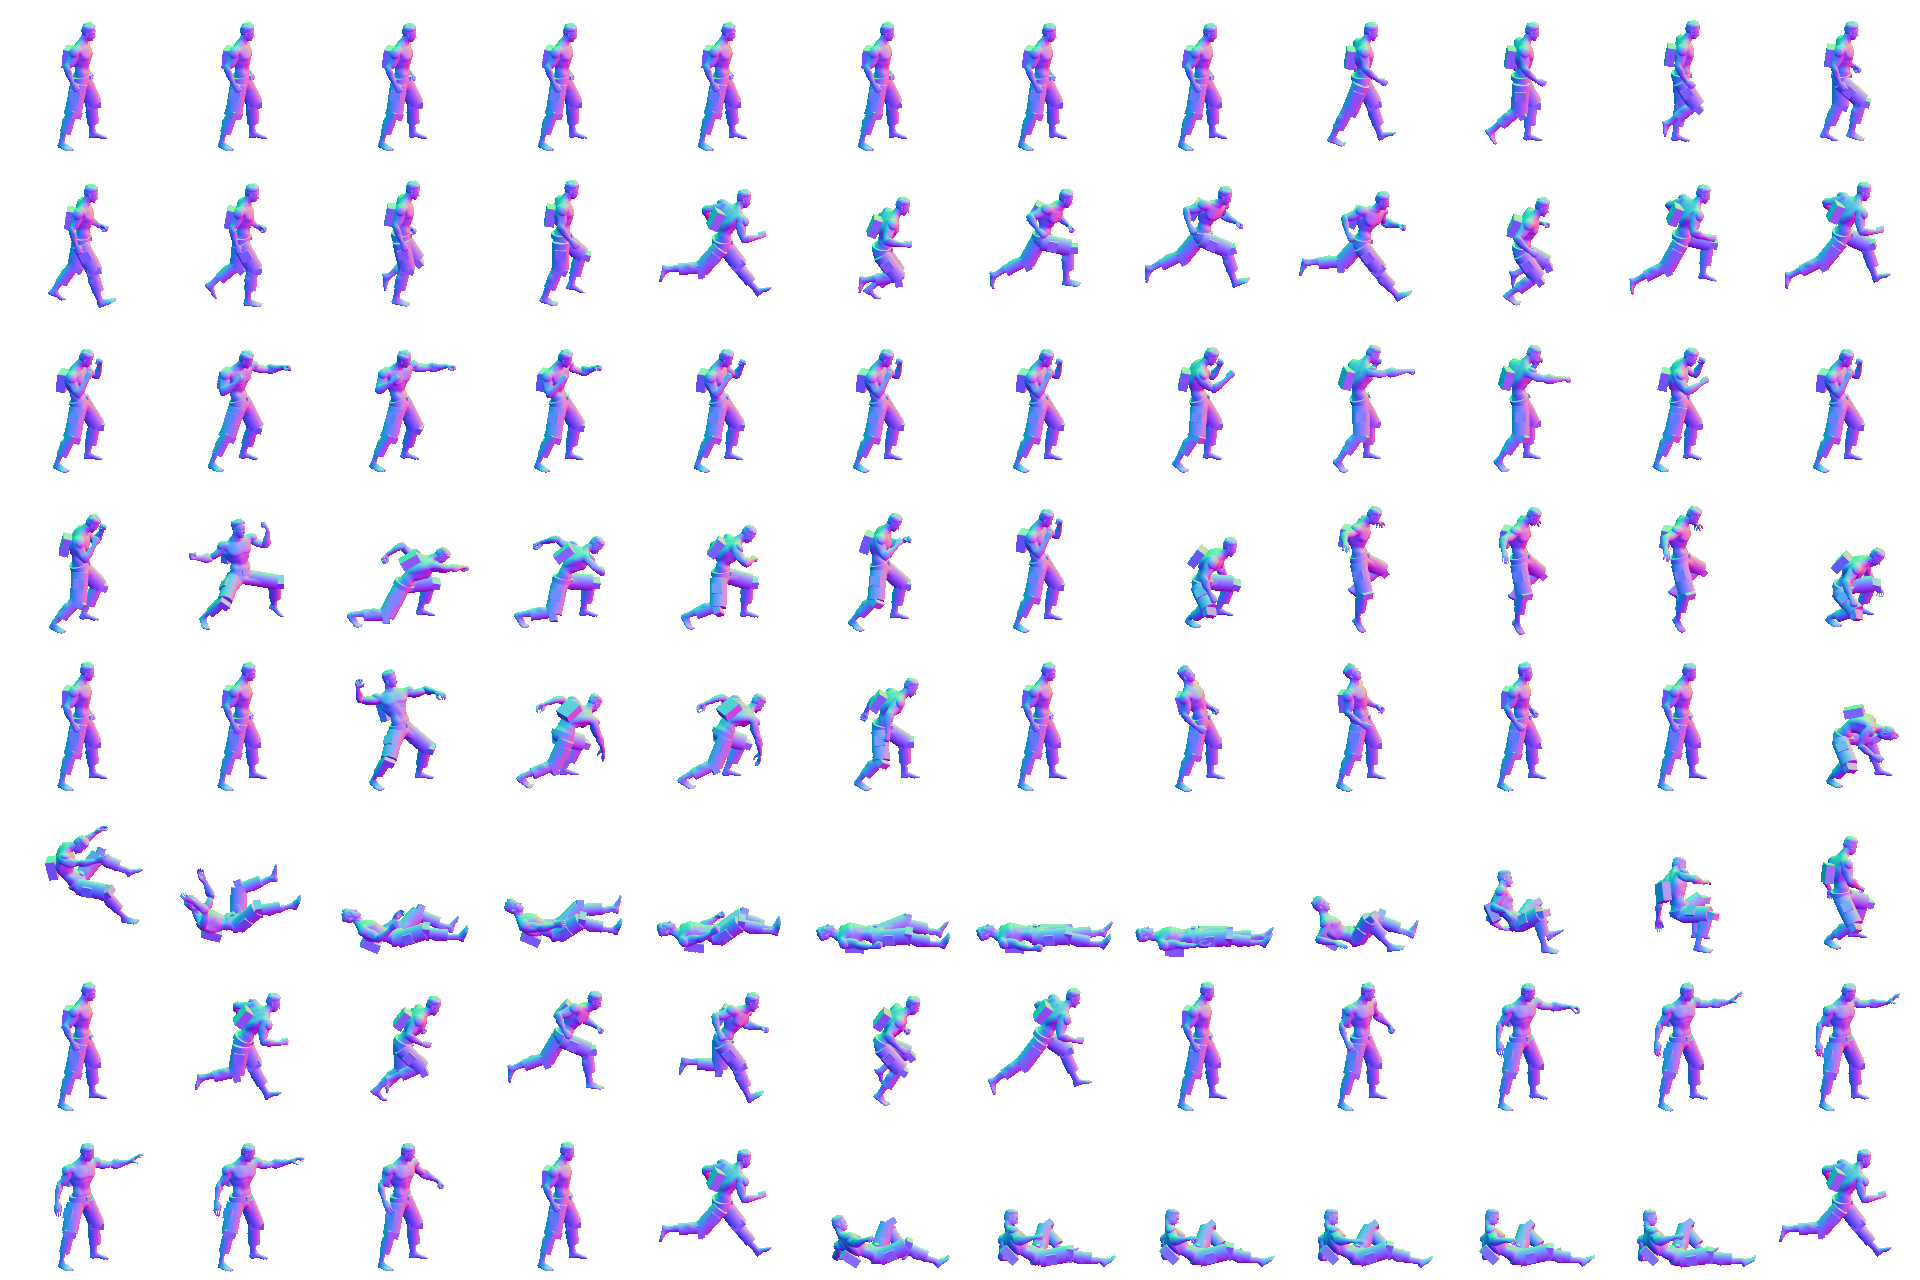
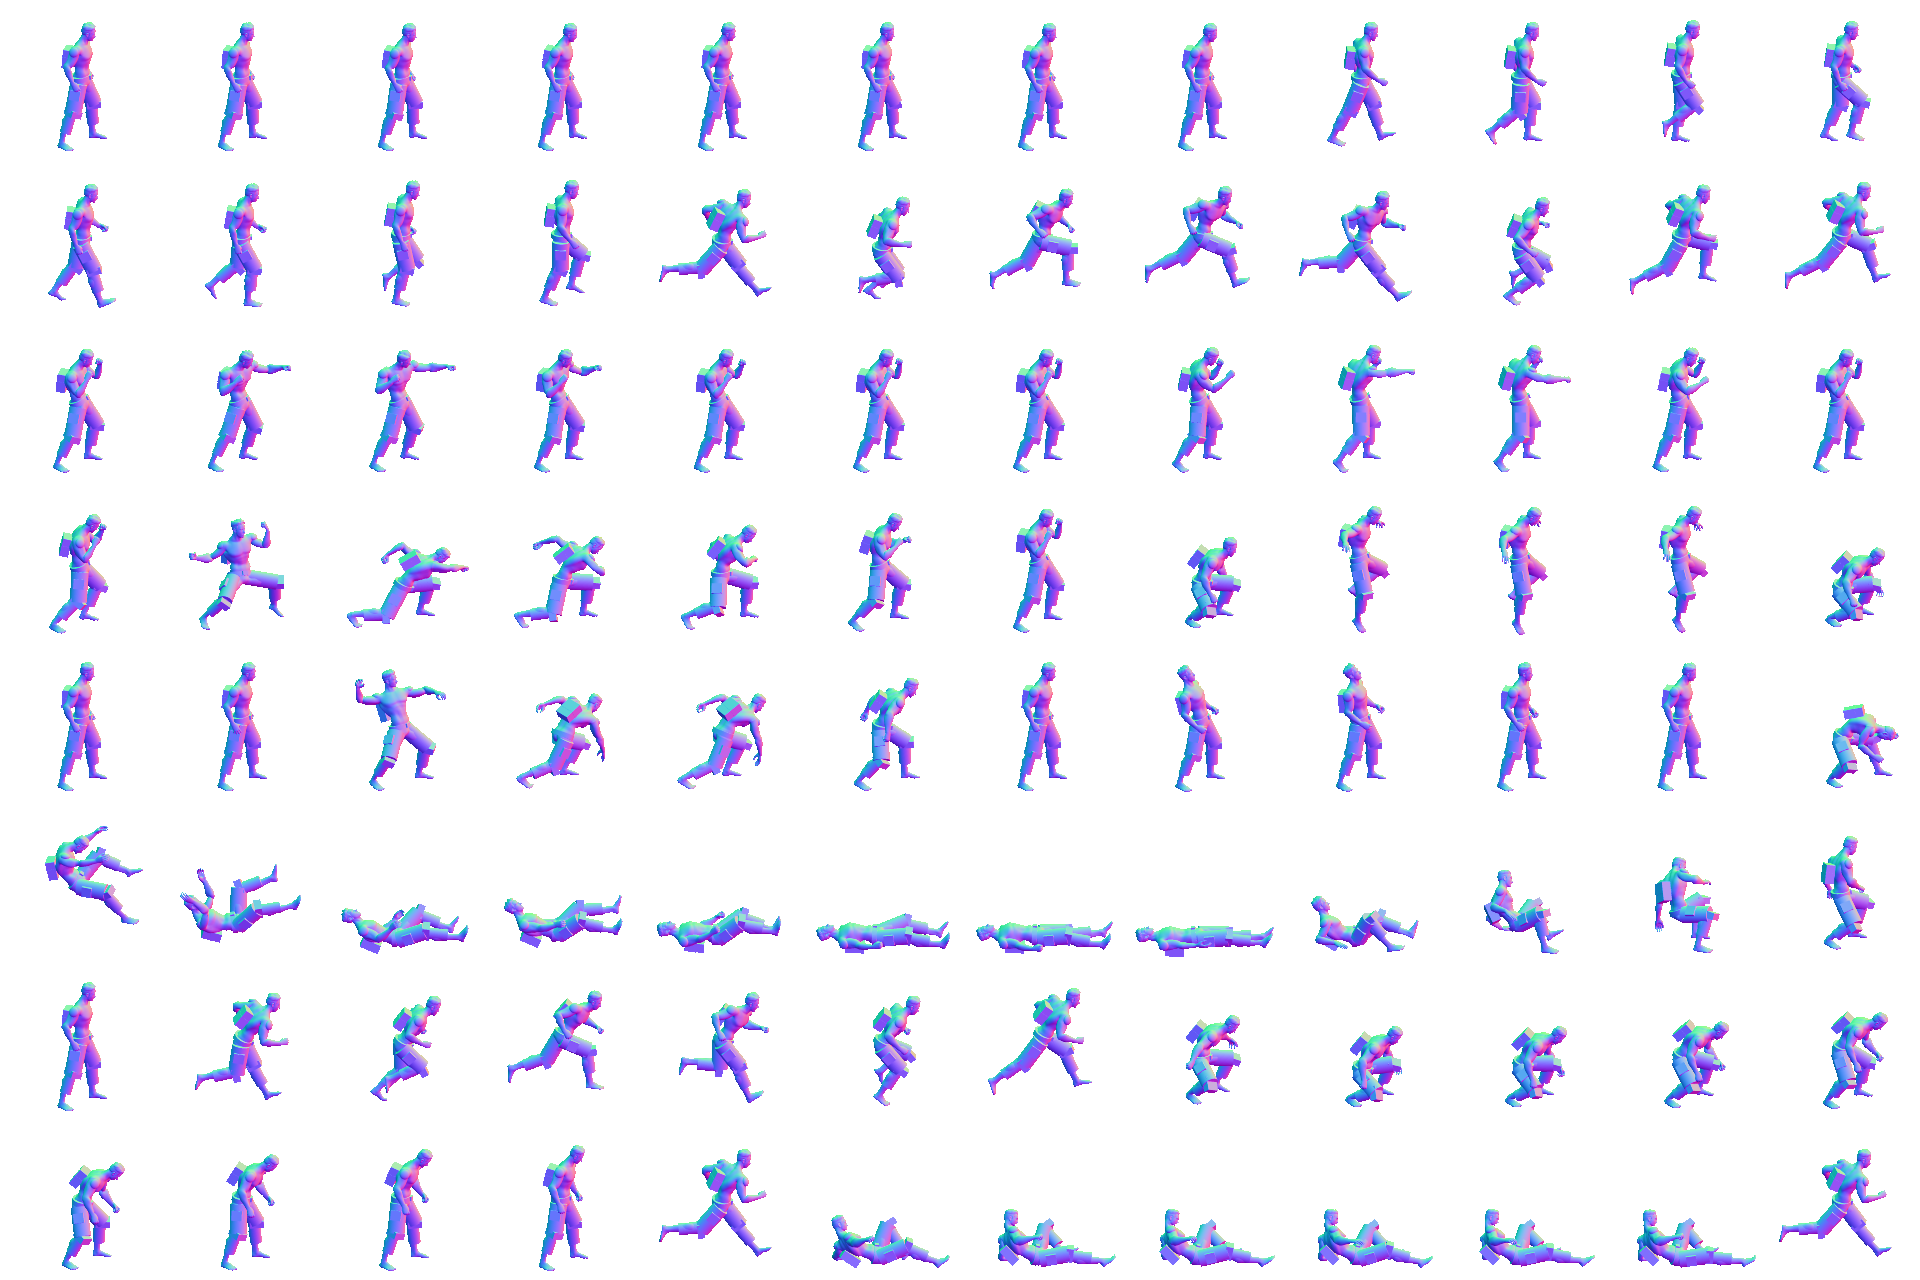
fix(nr): the radius special draws the landing crouch and the look scene has enemies on both sides
special_knockback is NinjaJump_Land frames 2 to 24 (a hand to the ground) in place of the Spell_Simple actions, whose one-arm point
read as a directed push; hero.json re-pinned, hero and hero-p2 re-rendered and installed, PROVENANCE and the clip audit updated.
nr_look gains two grunts behind the hero outside the dash's lane so the radius special reaches enemies on every side. Frame counts,
cell, pivots and reach are unchanged (reach-check, clips-check, hero-variant-check pass); the simulation and its goldens are unchanged.

diff --git a/games/nr/main.c b/games/nr/main.c
@@ -662,9 +662,10 @@ static void layout_dummies(void) {
 
 /* The look scene (NR_LOOK): real grunts and a heavy that stand still, facing the heroes (who come from the left). A grunt
  * keeps its two hit points unless the scene gives it more. Station 1 is the dash special's lane (two grunts and the heavy
- * in a file from the heroes' start); station 2 a crowd round one point for the radius special; station 3 a grunt a short
- * step from the pillar, which stops its knockback so a whole combo stays in contact (it has six hit points: the combo's
- * three hits take four). */
+ * in a file from the heroes' start); station 2 is the radius special where the dash ends: three grunts and the heavy ahead
+ * of it, and one grunt behind it each side of the dash's lane (a larger lane than the dash's box reaches), so the special
+ * reaches enemies on every side; station 3 is a grunt a short step from the pillar, which stops its knockback so a whole
+ * combo stays in contact (it has six hit points: the combo's three hits take four). */
 #if NR_LOOK
 static void look_enemy(int32_t kind, float x, float lane, int32_t hp) {
   int id = nr_sim_spawn_enemy(&S.sim, kind, x, lane);
@@ -681,6 +682,8 @@ static void layout_look(void) {
   look_enemy(NR_KIND_GRUNT, 6.2f, 0.1f, 0);
   look_enemy(NR_KIND_GRUNT, 5.6f, -0.3f, 0);
   look_enemy(NR_KIND_GRUNT, 10.3f, 0.45f, 6);
+  look_enemy(NR_KIND_GRUNT, 2.6f, 1.55f, 0);
+  look_enemy(NR_KIND_GRUNT, 3.3f, -0.9f, 0);
 }
 #endif
 

diff --git a/games/nr/assets/PROVENANCE.md b/games/nr/assets/PROVENANCE.md
@@ -8,11 +8,11 @@ The manifest `hero.json` records the recipe, profile and per-frame payload hashe
 
 | Input | sha256 |
 | --- | --- |
[10 lines of base64/hex data omitted]
 
 The atlas holds 14 clips and 96 frames on one 1920x1280 page per sheet: idle, walk, run, hit1, hit2, hit3, jump, throw,
 hurt, knockdown, getup, dash, special_knockback and special_dash. Rendered twice from this recipe and profile, the
@@ -31,9 +31,9 @@ colour sheet over `hero-n.png` and the normal sheet of this render is not kept. 
 
 | Input | sha256 |
 | --- | --- |
[6 lines of base64/hex data omitted]
 
 ## atlases/grunt.png, grunt-n.png, grunt.json
 
@@ -100,8 +100,8 @@ and any file whose sha256 differs from `tools/render/kits.json`. The rendered sp
 
 Actions used, by file: `UAL1_Standard.glb` for idle, walk, run, hit1, hit2, jump, hurt and dash (`Idle_Loop`,
 `Walk_Loop`, `Jog_Fwd_Loop`, `Punch_Jab`, `Punch_Cross`, `Jump_Start`/`Jump_Loop`/`Jump_Land`, `Hit_Chest`,
-`Sprint_Loop`) and for special_knockback (`Spell_Simple_Enter`/`Shoot`/`Exit`); `UAL2_Standard.glb` for hit3
-(`Melee_Hook`, `Melee_Hook_Rec`), throw (`OverhandThrow`), knockdown (`Hit_Knockback`), getup (`LayToIdle`) and
+`Sprint_Loop`); `UAL2_Standard.glb` for hit3
+(`Melee_Hook`, `Melee_Hook_Rec`), special_knockback (`NinjaJump_Land`, frames 2 to 24), throw (`OverhandThrow`), knockdown (`Hit_Knockback`), getup (`LayToIdle`) and
 special_dash (`Slide_Start`/`Loop`/`Exit`). `UAL2_Standard_RM.glb` (root motion) and `Mannequin_F.*` are pinned and
 audited, not used.
 
@@ -113,7 +113,8 @@ refuses them and the atlas has no frames for them. The owner hand-keys them in B
 files.
 
 Derived from library actions (the owner's accepted picks, `docs/evidence/combat-slice/clip-audit.md`): special_knockback
-is the three Spell_Simple actions in sequence; special_dash is the three Slide actions in sequence; hit3 is
+is the landing crouch of `NinjaJump_Land` (the hand to the ground, read as an area attack from the side; the earlier
+Spell_Simple actions pointed one arm forward); special_dash is the three Slide actions in sequence; hit3 is
 `Melee_Hook` followed by `Melee_Hook_Rec`; jump is take-off, air loop and landing in sequence. hit1, hit2 and dash are
 single library actions standing in for a role the kits do not name.
 

diff --git a/docs/evidence/combat-slice/clip-audit.md b/docs/evidence/combat-slice/clip-audit.md
@@ -47,7 +47,7 @@ Frame rate: 24 fps. glTF carries no cyclic flag; a `_Loop` suffix is the library
 | knockdown | exact match | `Hit_Knockback` (21 f @ 24 fps, UAL2_Standard.glb) | UAL2, 21 frames, from a standing recoil to lying on the floor (head 0.15 above it). |
 | getup | exact match | `LayToIdle` (38 f @ 24 fps, UAL2_Standard.glb) | UAL2, 38 frames, from the floor pose Hit_Knockback ends in to standing. |
 | dash | usable substitute | `Sprint_Loop` (17 f @ 24 fps, UAL1_Standard.glb) | 17-frame loop. Sword_Dash (39 frames) and Shield_Dash (27 frames) are dashes by name but armed; Roll (36 frames) is the evasive alternative. |
-| special_knockback | usable substitute | `Spell_Simple_Enter` (14 f @ 24 fps, UAL1_Standard.glb), `Spell_Simple_Shoot` (13 f @ 24 fps, UAL1_Standard.glb), `Spell_Simple_Exit` (11 f @ 24 fps, UAL1_Standard.glb) | Derived: the three spell actions in sequence, shown as a radial blast. Owner call: a cast gesture standing in for a shove-everything-away move. |
+| special_knockback | usable substitute | `NinjaJump_Land` (31 f @ 24 fps, UAL2_Standard.glb) | Derived: `NinjaJump_Land` from frame 2 to frame 24, the landing crouch with a hand to the ground. Look-gate review: the Spell_Simple actions point one arm forward and read as a directed push; the crouch reads as an area attack from the side. |
 | special_dash | usable substitute | `Slide_Start` (21 f @ 24 fps, UAL2_Standard.glb), `Slide_Loop` (49 f @ 24 fps, UAL2_Standard.glb), `Slide_Exit` (13 f @ 24 fps, UAL2_Standard.glb) | Derived: the three slide actions in sequence. A slide tackle (pelvis 0.05 above the floor in the loop) as the dash special. |
 
 8 exact, 6 usable substitute, 2 gap of 16.
